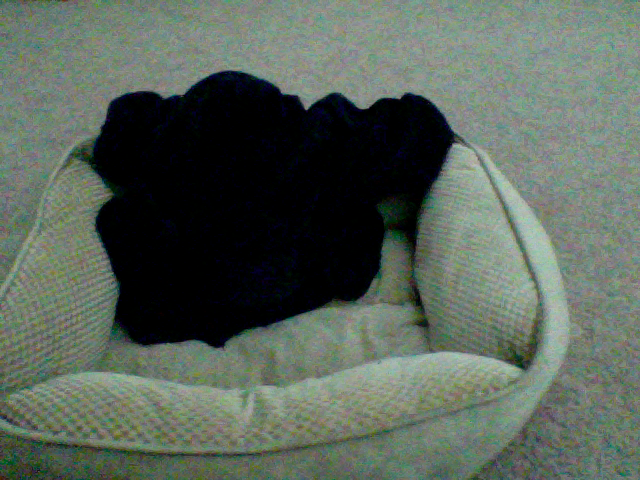
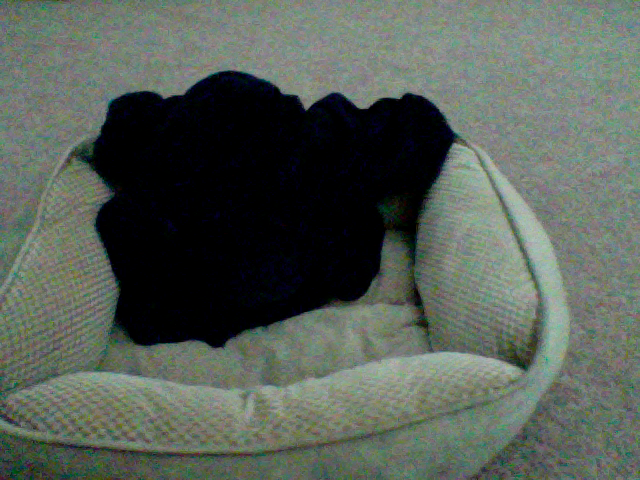
update at Month05Day08Time09:28

diff --git a/index.html b/index.html
@@ -39,8 +39,8 @@
       <!-- Example row of columns -->
       <div class="row">
         <div class="col-md-4">
-	<p>This picture was updated at Month05Day08Time09:27</p>
-		<img src="9_pic.png" />
+	<p>This picture was updated at Month05Day08Time09:28</p>
+		<img src="1_pic.png" />
         </div>
       </div>
 
